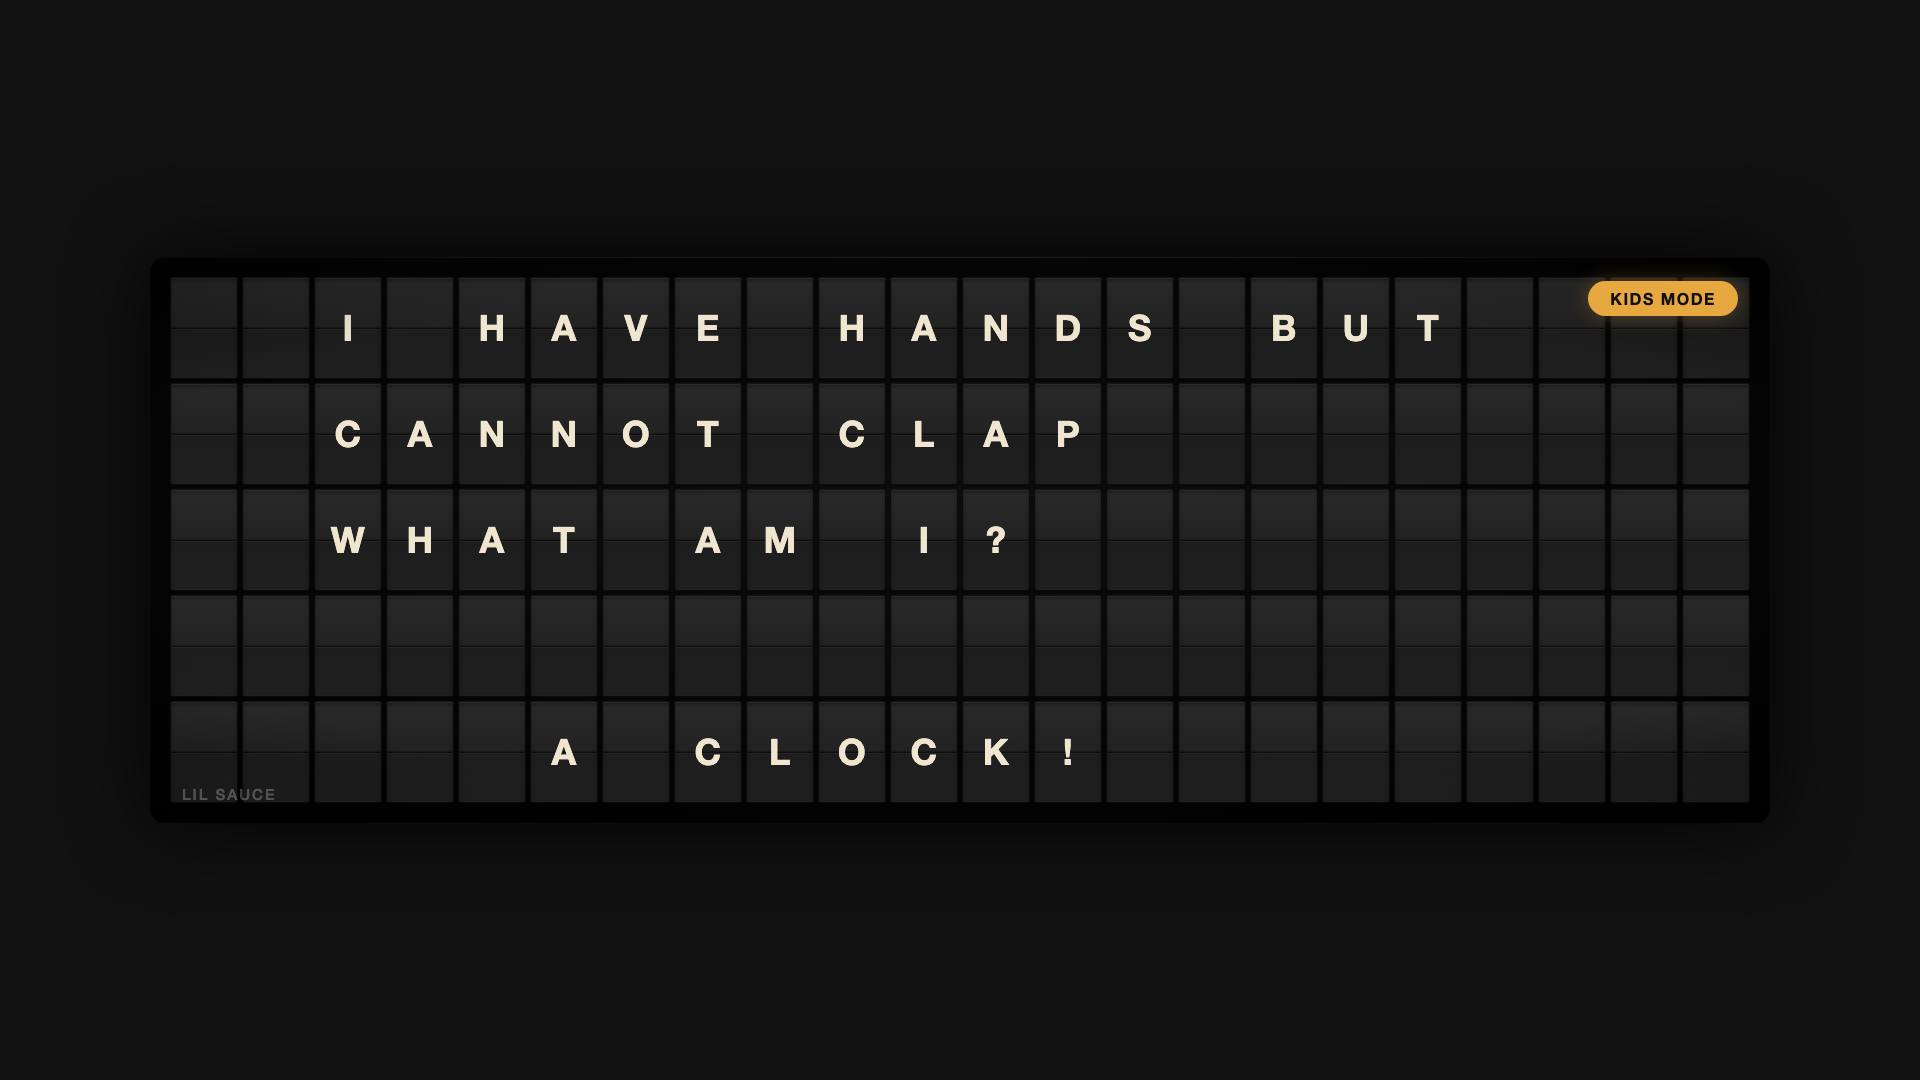
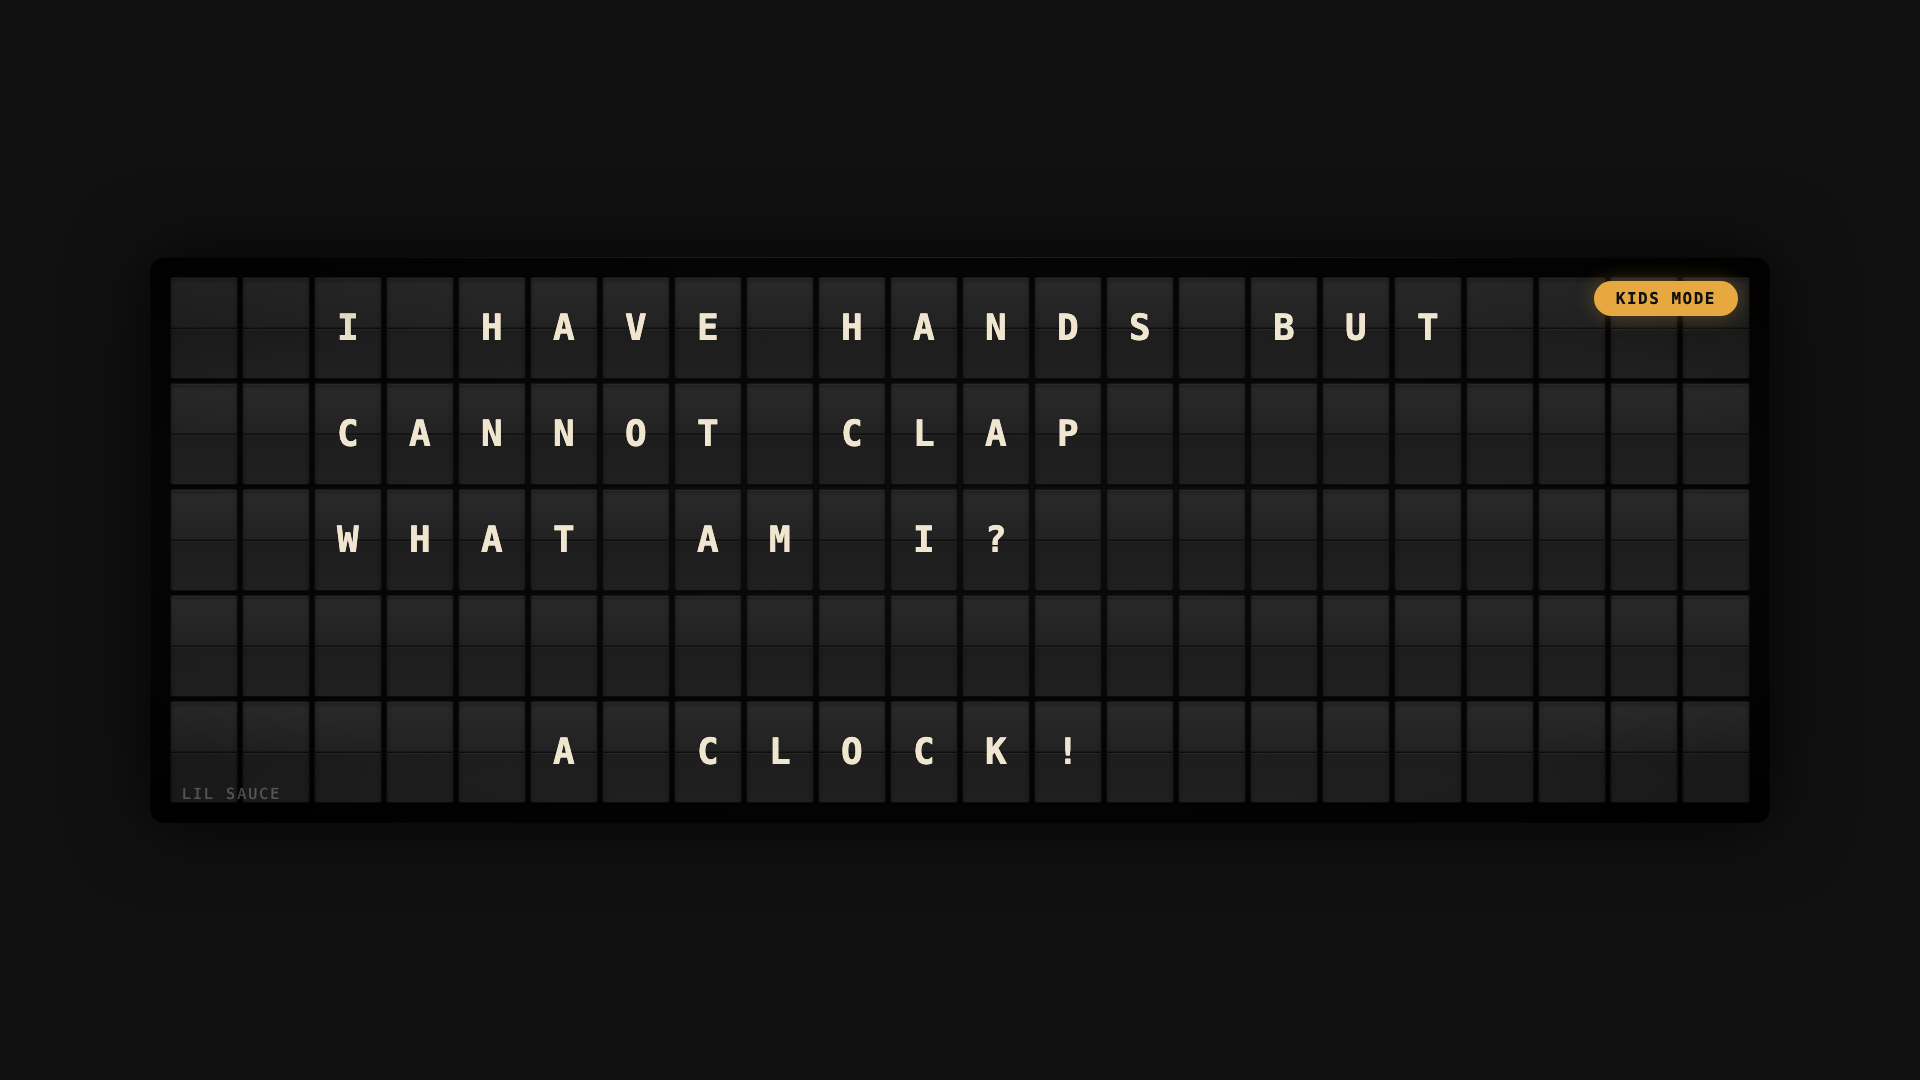
Fix screenshot font to monospaced, replace emoji with SF Symbols
Agent-Id: agent-9806ce23-f7de-4f2b-80e9-5b48759b79a8

diff --git a/tvos/FlipOff/ModePickerViewController.swift b/tvos/FlipOff/ModePickerViewController.swift
@@ -10,8 +10,8 @@ class ModePickerViewController: UIViewController {
     private let modes = ModeDefinition.all
     private var modeButtons: [UIButton] = []
 
-    // Card icon labels for styling during focus
-    private var iconLabels: [UILabel] = []
+    // Card icon image views for styling during focus
+    private var iconImageViews: [UIImageView] = []
     // Accent stripe layers per card
     private var accentStripes: [CALayer] = []
 
@@ -77,7 +77,7 @@ class ModePickerViewController: UIViewController {
         view.addSubview(stackView)
 
         modeButtons = []
-        iconLabels = []
+        iconImageViews = []
         accentStripes = []
         for (i, mode) in modes.enumerated() {
             let button = createModeButton(mode: mode, tag: i)
@@ -135,16 +135,17 @@ class ModePickerViewController: UIViewController {
         button.layer.addSublayer(stripe)
         accentStripes.append(stripe)
 
-        // Icon — large emoji/symbol for visual identity
-        let iconLabel = UILabel()
-        let icons = ["🎲", "💡", "🏛"]
-        iconLabel.text = tag < icons.count ? icons[tag] : "●"
-        iconLabel.font = UIFont.systemFont(ofSize: 48)
-        iconLabel.textAlignment = .center
-        iconLabel.translatesAutoresizingMaskIntoConstraints = false
-        iconLabel.isUserInteractionEnabled = false
-        button.addSubview(iconLabel)
-        iconLabels.append(iconLabel)
+        // Icon — SF Symbol for visual identity
+        let sfNames = ["dice.fill", "lightbulb.fill", "building.columns.fill"]
+        let symbolConfig = UIImage.SymbolConfiguration(pointSize: 44, weight: .medium)
+        let sfName = tag < sfNames.count ? sfNames[tag] : "circle.fill"
+        let iconImageView = UIImageView(image: UIImage(systemName: sfName, withConfiguration: symbolConfig))
+        iconImageView.tintColor = mode.color
+        iconImageView.contentMode = .scaleAspectFit
+        iconImageView.translatesAutoresizingMaskIntoConstraints = false
+        iconImageView.isUserInteractionEnabled = false
+        button.addSubview(iconImageView)
+        iconImageViews.append(iconImageView)
 
         // Title — mode name
         let titleLabel = UILabel()
@@ -171,11 +172,13 @@ class ModePickerViewController: UIViewController {
         button.accessibilityLabel = "\(mode.title) mode. \(mode.description.replacingOccurrences(of: "\n", with: ", "))"
 
         NSLayoutConstraint.activate([
-            iconLabel.centerXAnchor.constraint(equalTo: button.centerXAnchor),
-            iconLabel.topAnchor.constraint(equalTo: button.topAnchor, constant: 48),
+            iconImageView.centerXAnchor.constraint(equalTo: button.centerXAnchor),
+            iconImageView.topAnchor.constraint(equalTo: button.topAnchor, constant: 48),
+            iconImageView.widthAnchor.constraint(equalToConstant: 48),
+            iconImageView.heightAnchor.constraint(equalToConstant: 48),
 
             titleLabel.centerXAnchor.constraint(equalTo: button.centerXAnchor),
-            titleLabel.topAnchor.constraint(equalTo: iconLabel.bottomAnchor, constant: 16),
+            titleLabel.topAnchor.constraint(equalTo: iconImageView.bottomAnchor, constant: 16),
 
             descLabel.topAnchor.constraint(equalTo: titleLabel.bottomAnchor, constant: 12),
             descLabel.leadingAnchor.constraint(equalTo: button.leadingAnchor, constant: 24),

diff --git a/tvos/FlipOff/ViewController.swift b/tvos/FlipOff/ViewController.swift
@@ -375,15 +375,16 @@ class ViewController: UIViewController, MessageSchedulerDelegate, ModePickerDele
         group.motionEffects = [hMotion, vMotion]
         button.addMotionEffect(group)
 
-        // Icon
-        let icons = ["🎲", "💡", "🏛"]
-        let iconLabel = UILabel()
-        iconLabel.text = tag < icons.count ? icons[tag] : "●"
-        iconLabel.font = UIFont.systemFont(ofSize: 32)
-        iconLabel.textAlignment = .center
-        iconLabel.translatesAutoresizingMaskIntoConstraints = false
-        iconLabel.isUserInteractionEnabled = false
-        button.addSubview(iconLabel)
+        // Icon — SF Symbol
+        let sfNames = ["dice.fill", "lightbulb.fill", "building.columns.fill"]
+        let symbolConfig = UIImage.SymbolConfiguration(pointSize: 36, weight: .medium)
+        let sfName = tag < sfNames.count ? sfNames[tag] : "circle.fill"
+        let iconImageView = UIImageView(image: UIImage(systemName: sfName, withConfiguration: symbolConfig))
+        iconImageView.tintColor = mode.color
+        iconImageView.contentMode = .scaleAspectFit
+        iconImageView.translatesAutoresizingMaskIntoConstraints = false
+        iconImageView.isUserInteractionEnabled = false
+        button.addSubview(iconImageView)
 
         // Title
         let label = UILabel()
@@ -422,11 +423,13 @@ class ViewController: UIViewController, MessageSchedulerDelegate, ModePickerDele
         button.accessibilityLabel = "\(mode.title) mode\(activeText)"
 
         NSLayoutConstraint.activate([
-            iconLabel.centerXAnchor.constraint(equalTo: button.centerXAnchor),
-            iconLabel.centerYAnchor.constraint(equalTo: button.centerYAnchor, constant: isActive ? -40 : -24),
+            iconImageView.centerXAnchor.constraint(equalTo: button.centerXAnchor),
+            iconImageView.centerYAnchor.constraint(equalTo: button.centerYAnchor, constant: isActive ? -40 : -24),
+            iconImageView.widthAnchor.constraint(equalToConstant: 40),
+            iconImageView.heightAnchor.constraint(equalToConstant: 40),
 
             label.centerXAnchor.constraint(equalTo: button.centerXAnchor),
-            label.topAnchor.constraint(equalTo: iconLabel.bottomAnchor, constant: 8),
+            label.topAnchor.constraint(equalTo: iconImageView.bottomAnchor, constant: 8),
         ])
 
         return button

diff --git a/screenshots/riddle-mode.html b/screenshots/riddle-mode.html
@@ -11,7 +11,7 @@ body {
     display: flex;
     align-items: center;
     justify-content: center;
-    font-family: 'Helvetica Neue', Helvetica, Arial, sans-serif;
+    font-family: 'SF Mono', 'Menlo', 'Courier New', monospace;
 }
 .board {
     position: relative;
@@ -75,7 +75,7 @@ body {
 .tile-face span {
     font-size: 36px; font-weight: 700; color: #F0E6D0;
     text-transform: uppercase; letter-spacing: 0.5px; line-height: 1;
-    font-family: 'Helvetica Neue', Helvetica, Arial, sans-serif; z-index: 1;
+    font-family: 'SF Mono', 'Menlo', 'Courier New', monospace; z-index: 1;
 }
 .mode-badge {
     position: absolute; top: 24px; right: 32px;

diff --git a/screenshots/mode-picker.html b/screenshots/mode-picker.html
@@ -12,7 +12,7 @@ body {
     flex-direction: column;
     align-items: center;
     justify-content: center;
-    font-family: 'Helvetica Neue', Helvetica, Arial, sans-serif;
+    font-family: 'SF Mono', 'Menlo', 'Courier New', monospace;
 }
 .title {
     font-size: 64px;
@@ -90,7 +90,7 @@ body {
 }
 .mini-face span {
     font-size: 16px; font-weight: 700; color: #F0E6D0;
-    font-family: 'Helvetica Neue', Helvetica, Arial, sans-serif;
+    font-family: 'SF Mono', 'Menlo', 'Courier New', monospace;
 }
 .card-label {
     font-size: 28px;

diff --git a/screenshots/history-mode.html b/screenshots/history-mode.html
@@ -11,7 +11,7 @@ body {
     display: flex;
     align-items: center;
     justify-content: center;
-    font-family: 'Helvetica Neue', Helvetica, Arial, sans-serif;
+    font-family: 'SF Mono', 'Menlo', 'Courier New', monospace;
 }
 .board {
     position: relative;
@@ -93,7 +93,7 @@ body {
     text-transform: uppercase;
     letter-spacing: 0.5px;
     line-height: 1;
-    font-family: 'Helvetica Neue', Helvetica, Arial, sans-serif;
+    font-family: 'SF Mono', 'Menlo', 'Courier New', monospace;
     z-index: 1;
 }
 .mode-badge {

diff --git a/screenshots/innovator-mode.html b/screenshots/innovator-mode.html
@@ -11,7 +11,7 @@ body {
     display: flex;
     align-items: center;
     justify-content: center;
-    font-family: 'Helvetica Neue', Helvetica, Arial, sans-serif;
+    font-family: 'SF Mono', 'Menlo', 'Courier New', monospace;
 }
 .board {
     position: relative;
@@ -93,7 +93,7 @@ body {
     text-transform: uppercase;
     letter-spacing: 0.5px;
     line-height: 1;
-    font-family: 'Helvetica Neue', Helvetica, Arial, sans-serif;
+    font-family: 'SF Mono', 'Menlo', 'Courier New', monospace;
     z-index: 1;
 }
 .mode-badge {

diff --git a/screenshots/kids-mode.html b/screenshots/kids-mode.html
@@ -11,7 +11,7 @@ body {
     display: flex;
     align-items: center;
     justify-content: center;
-    font-family: 'Helvetica Neue', Helvetica, Arial, sans-serif;
+    font-family: 'SF Mono', 'Menlo', 'Courier New', monospace;
 }
 .board {
     position: relative;
@@ -93,7 +93,7 @@ body {
     text-transform: uppercase;
     letter-spacing: 0.5px;
     line-height: 1;
-    font-family: 'Helvetica Neue', Helvetica, Arial, sans-serif;
+    font-family: 'SF Mono', 'Menlo', 'Courier New', monospace;
     z-index: 1;
 }
 .mode-badge {
